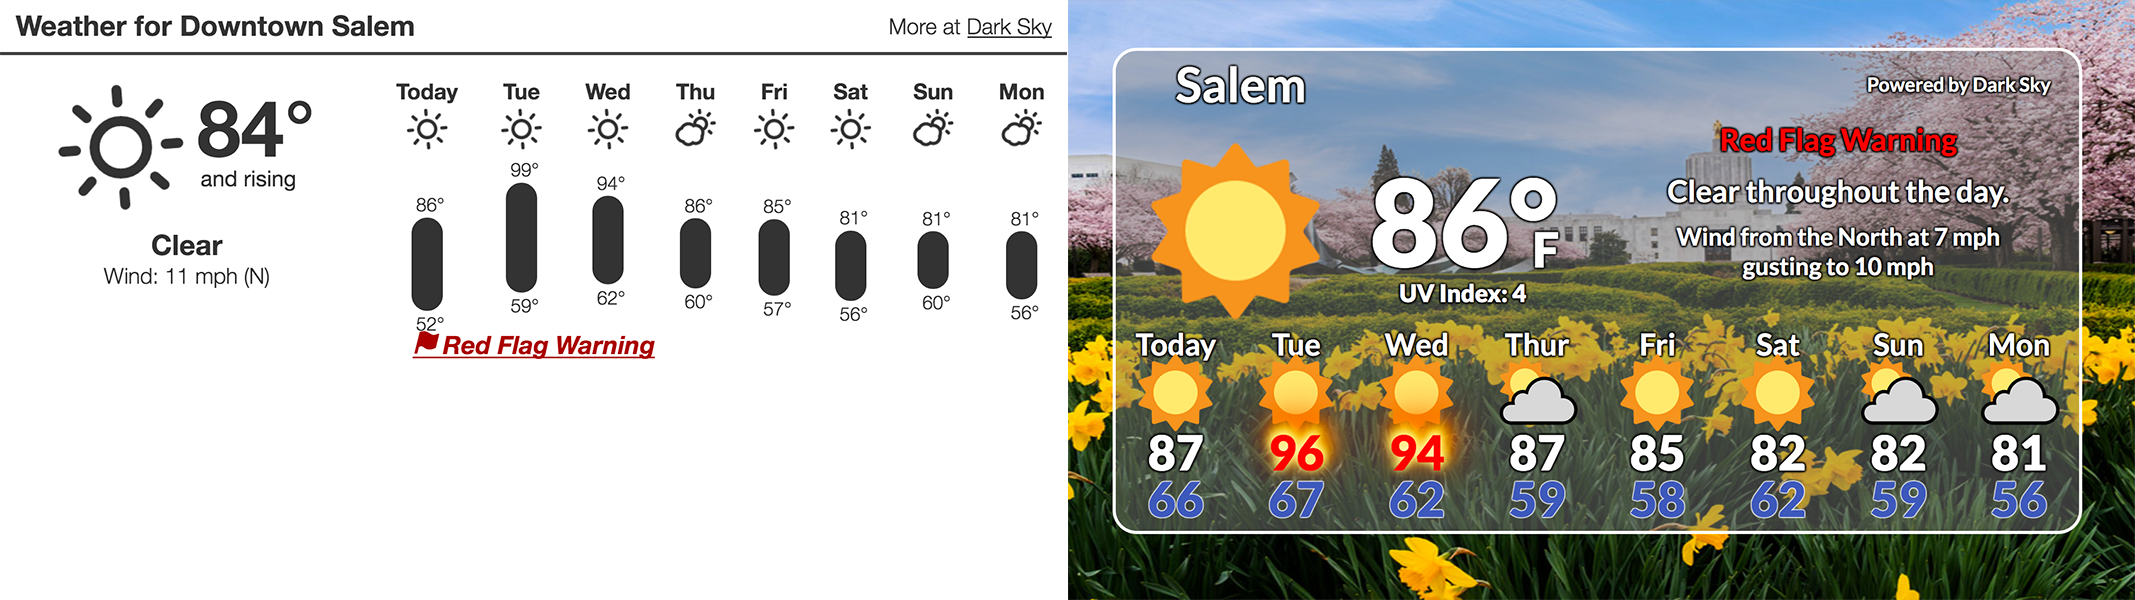
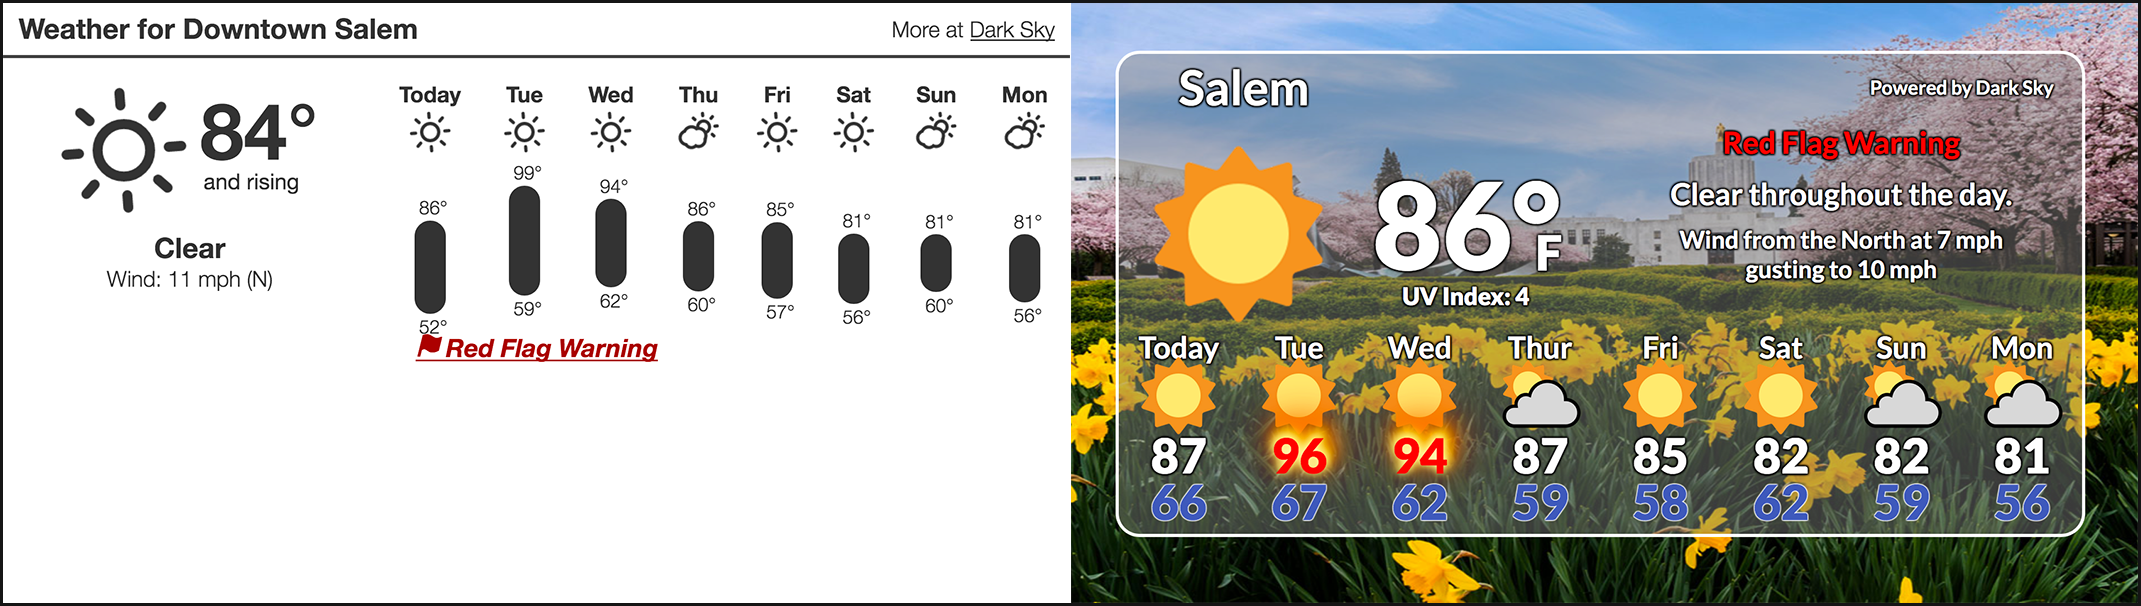
Added sample image to README

diff --git a/README.md b/README.md
@@ -3,3 +3,19 @@
 
 [Corsica](https://github.com/mozilla/corsica-cli) digital sign servers have frequently used the forecast.io weather widget in full screen mode to display local weather information.  
 
+![Sample Images](https://raw.githubusercontent.com/RAMilewski/CorsicaWx/master/graphics/images/CorsicaWxSample.png)
+
+CorsicaWx used the same Dark Sky API as the forecast.io widget, but is fully configurable.  For example:
+
+  * The default background image is configurable.
+  * Background images can be selected by location and/or by weather condition (rain, snow, etc).
+  * Random selection of multiple background images for a given location or weather condition is possible.
+
+  
+
+
+
+
+
+
+
